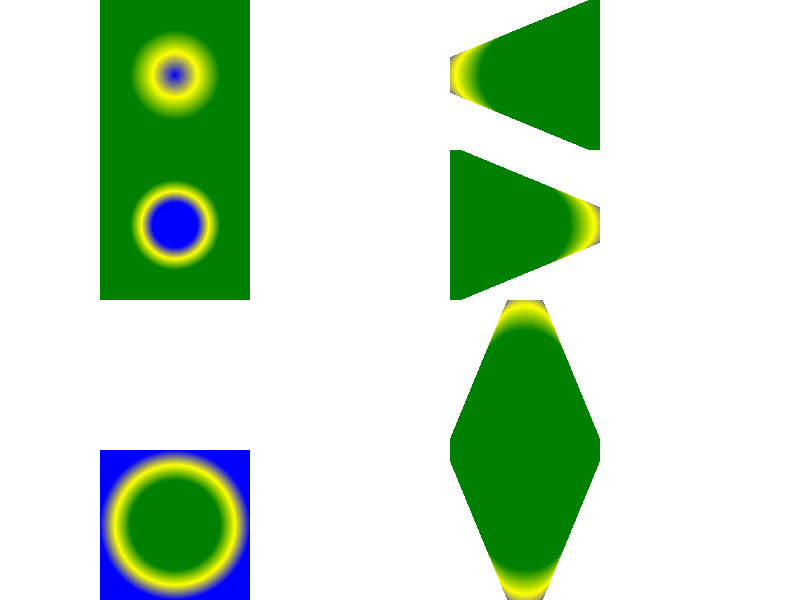
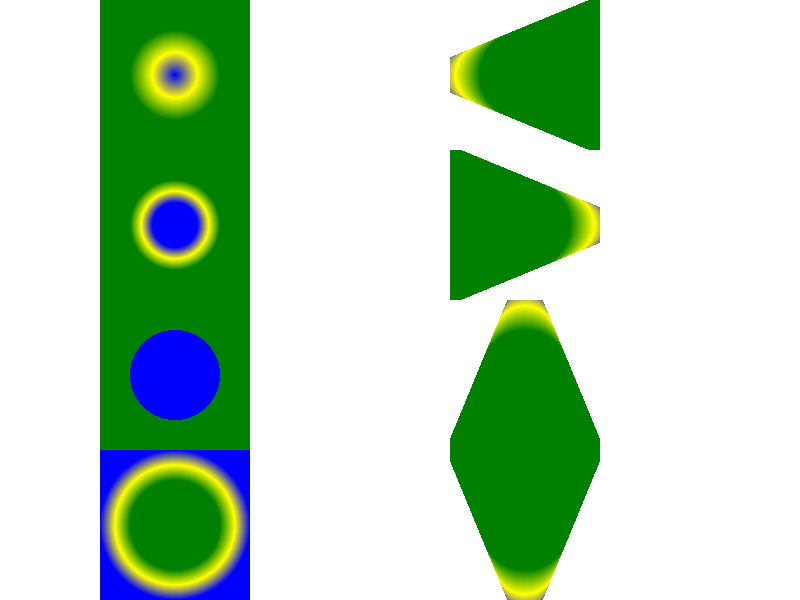
Allow degenerate SVG radial gradients
Per spec clarification [1], do not skip drawing of radial gradients with
overlapping start/end radii - defer to Skia's handling of degenerate gradients
instead.

[1] https://github.com/w3c/svgwg/issues/648#issuecomment-474090448

Bug: 933413
Commit-Queue: Florin Malita <fmalita@chromium.org>
Cr-Original-Commit-Position: refs/heads/master@{#642769}
Cr-Mirrored-From: https://chromium.googlesource.com/chromium/src
Cr-Mirrored-Commit: cc55db34160aed18a204593e985707fdc1f1012b

Changed region(s): [[0.125, 0.48, 0.3125, 0.75]]

diff --git a/blink/renderer/core/layout/svg/layout_svg_resource_radial_gradient.cc b/blink/renderer/core/layout/svg/layout_svg_resource_radial_gradient.cc
@@ -72,7 +72,7 @@ scoped_refptr<Gradient> LayoutSVGResourceRadialGradient::BuildGradient() const {
       Radius(attributes), 1,
       PlatformSpreadMethodFromSVGType(attributes.SpreadMethod()),
       Gradient::ColorInterpolation::kUnpremultiplied,
-      Gradient::DegenerateHandling::kDisallow);
+      Gradient::DegenerateHandling::kAllow);
   gradient->AddColorStops(attributes.Stops());
   return gradient;
 }
